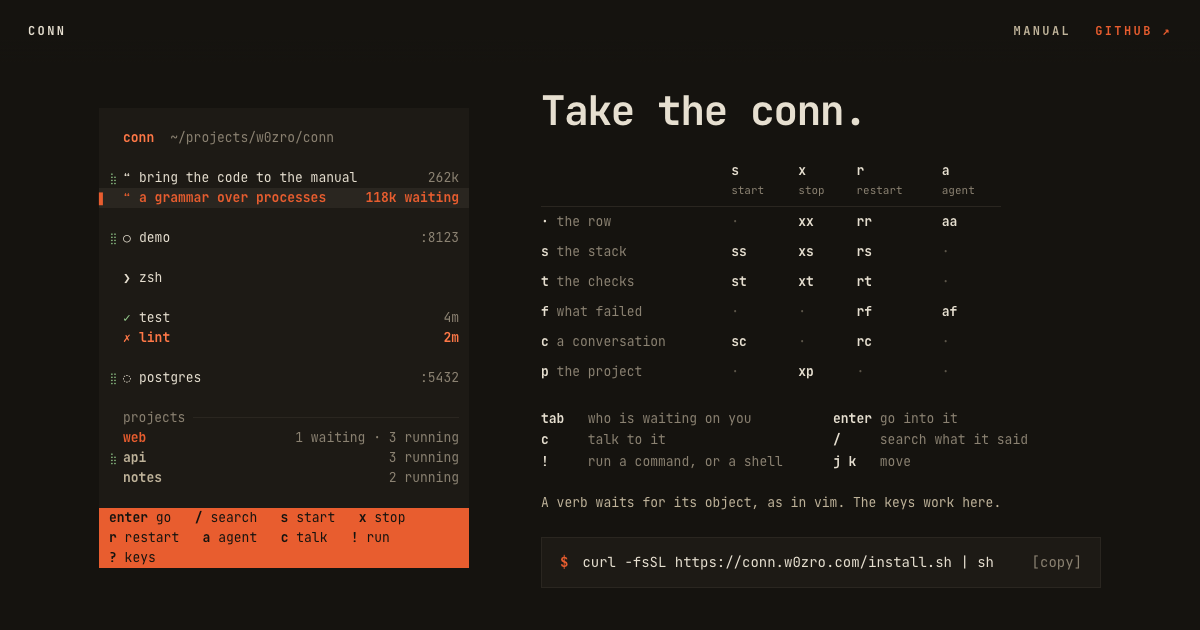
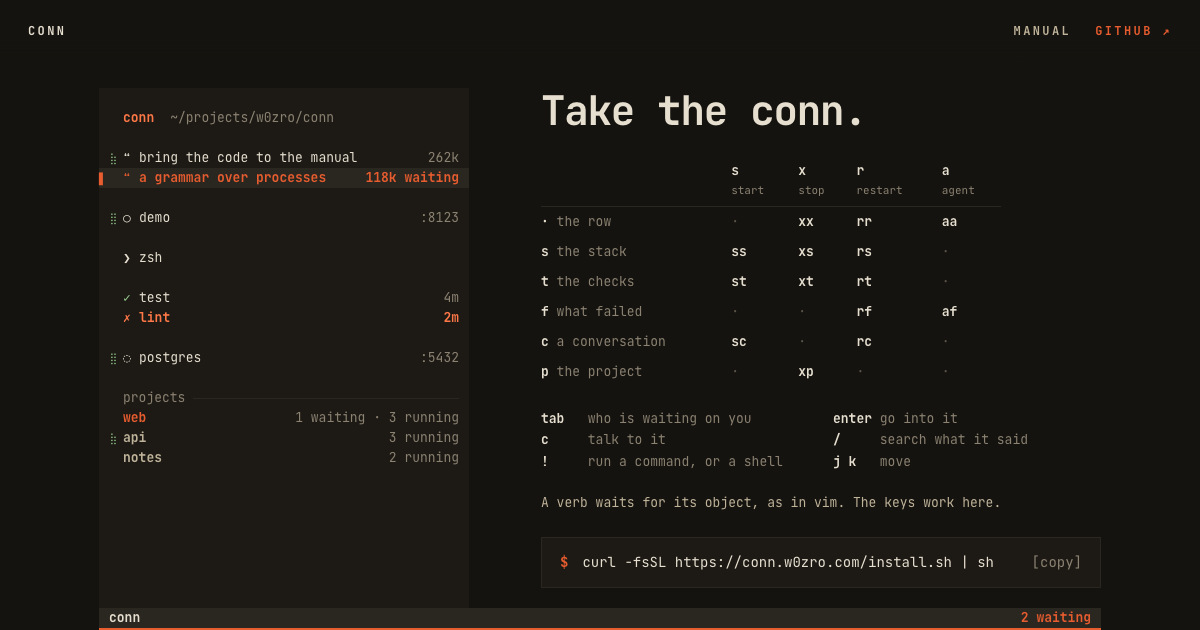
The hero is conn's window, with the band and the key bar at its foot, and a part says what the keys ask
The panel on the front page carried a key bar of its own, wrapped to
three rows at the panel's foot, which conn never shows: conn's keys
are on tmux's status line, one row across the window's foot, in the
block, and above it the band - conn at the left, and at the right how
many conversations wait across every project. The hero is now that
window: the panel pane at the left, reaching down to the foot, the
grammar where the workspace is, and under both the band and the bar.
A pending verb's objects take the bar, as they do in conn; a saying of
conn's own stands at the panel's foot under a row of air, as conn
lays it. The band counts what waits on the page.

A part on intent, between agents and waiting, says what the site did
not: a key is an intent conn builds no feature for; st and ss ask
Claude Code only where nobody has done it here yet and write down
what enter runs; c asks once how to talk to a process and keeps the
line; a kept command that fails at once is asked about again and a
wrong one replaced; and aa and af are the way out of the grammar. Its
figure plays conn's offer as scrolled to: the asking, the question
with the two lines, and the runs with their verdicts. The hand-off
lines move there from waiting, where the band is now said instead.

diff --git a/docs/site.js b/docs/site.js
@@ -78,7 +78,9 @@
   let rows = OPEN.rows.map(r => ({ ...r, id: Math.random() }));
   let cursor = Math.max(0, rows.findIndex(r => r.cursor));
   let verb = '', note = '', listing = false, listAt = 0;
-  const rowsEl = $('rows'), linesEl = $('lines'), footEl = $('foot'), panelEl = $('panel');
+  const rowsEl = $('rows'), linesEl = $('lines'), sayEl = $('say'), barEl = $('bar'), bandEl = $('band'), countEl = $('count'), panelEl = $('panel'), heroEl = document.querySelector('.hero');
+
+  const barHTML = hints => hints.map(([k, d]) => `<i><b>${esc(k)}</b> ${esc(d)}</i>`).join('');
 
   function markOf(r) {
     if (r.role === 'check') return r.status === 'passed' ? MARK.pass : r.status === 'failed' ? MARK.fail : MARK.check;
@@ -118,9 +120,13 @@
       rowsEl.innerHTML = html;
     }
     linesEl.innerHTML = OTHERS.map(p => `<div class="pline${p.waiting ? ' waiting' : ''}"><span class="spin">${p.turning ? '⣾' : ''}</span><span class="pname">${esc(p.name)}</span><span class="fig">${esc(p.standing)}</span></div>`).join('');
-    const hints = listing ? HINTS.list : verb ? HINTS[verb] : HINTS.project;
-    footEl.className = 'foot' + (note ? ' say' : '');
-    footEl.innerHTML = note ? esc(note) : hints.map(([k, d]) => `<i><b>${esc(k)}</b> ${esc(d)}</i>`).join('');
+    // The bar says the keys that work here, as tmux's line does; a
+    // saying of conn's own stands at the panel's foot; the band counts
+    // the conversations waiting across every project.
+    barEl.innerHTML = barHTML(listing ? HINTS.list : verb ? HINTS[verb] : HINTS.project);
+    sayEl.textContent = note;
+    const waiting = rows.filter(r => r.status === 'waiting').length + OTHERS.reduce((n, p) => n + p.rows.filter(r => r.status === 'waiting').length, 0);
+    countEl.textContent = waiting ? `${waiting} waiting` : '';
     for (const th of document.querySelectorAll('.verbs th[data-verb]')) th.classList.toggle('pending', th.dataset.verb === verb);
     for (const td of document.querySelectorAll('.verbs td[data-key]')) td.classList.toggle('pending', !!verb && td.dataset.key[0] === verb);
   }
@@ -257,7 +263,7 @@
   // their project's line. The grammar comes in last, and the line is
   // typed.
   const field = $('field'), panelbg = $('panelbg'), grammarEl = $('grammar');
-  const chromeEls = [panelbg, panelEl.querySelector('.phead'), panelEl.querySelector('.plabel'), footEl];
+  const chromeEls = [panelbg, panelEl.querySelector('.phead'), panelEl.querySelector('.plabel'), bandEl, barEl];
   const lerp = (a, b, t) => a + (b - a) * t;
   const ease = t => t < 0 ? 0 : t > 1 ? 1 : t * t * (3 - 2 * t);
   const clamp01 = t => Math.max(0, Math.min(1, t));
@@ -342,7 +348,7 @@
   function landed() {
     field.remove();
     for (const e of [...chromeEls, grammarEl, ...rowsEl.children, ...linesEl.children]) e.style.opacity = '';
-    panelEl.classList.remove('gathering'); grammarEl.classList.remove('gathering');
+    panelEl.classList.remove('gathering'); grammarEl.classList.remove('gathering'); heroEl.classList.remove('gathering');
     type(0);
   }
   function gather() {
@@ -382,6 +388,37 @@
     $('agentcmd').textContent = CMD; $('agentcur').classList.add('off'); $('agentout').textContent = OUT.join('\n');
   }
 
+  // ---- the offer --------------------------------------------------------
+
+  // Scrolled into view, st is pressed where no check has been run:
+  // conn asks Claude Code what the checks are, offers the answer on
+  // one key, and enter runs them and writes them down.
+  const obody = $('obody'), obar = $('obar');
+  const OFFER = [['test', 'go test -count=1 ./...'], ['lint', 'make lint']];
+  function offer() {
+    obody.innerHTML = '<div class="l">Nobody has done it here yet; asking Claude what checks conn…</div>';
+    obar.innerHTML = barHTML([['esc', 'cancel']]);
+    wait(1800, () => {
+      obody.innerHTML = '<div class="l ask">Run these checks in conn?</div><div class="l"></div>' + OFFER.map(([n, c]) => `<div class="l offered"><b>${n}</b>  ${esc(c)}</div>`).join('');
+      obar.innerHTML = barHTML([['enter', 'run them'], ['esc', 'cancel']]);
+    });
+    wait(4200, () => {
+      const checks = OFFER.map(([n]) => ({ role: 'check', name: n, status: 'running', id: Math.random() }));
+      const draw = () => { obody.innerHTML = checks.map(r => rowHTML(r, false)).join(''); };
+      draw();
+      obar.innerHTML = barHTML(HINTS.project);
+      wait(1500, () => { checks[0].status = 'passed'; checks[0].age = 'now'; draw(); });
+      wait(2100, () => { checks[1].status = 'failed'; checks[1].age = 'now'; draw(); });
+    });
+  }
+  if ('IntersectionObserver' in window && !held) {
+    const io = new IntersectionObserver(es => { if (es.some(e => e.isIntersecting)) { io.disconnect(); offer(); } }, { threshold: 0.6 });
+    io.observe($('offer'));
+  } else {
+    obody.innerHTML = '<div class="l ask">Run these checks in conn?</div><div class="l"></div>' + OFFER.map(([n, c]) => `<div class="l offered"><b>${n}</b>  ${esc(c)}</div>`).join('');
+    obar.innerHTML = barHTML([['enter', 'run them'], ['esc', 'cancel']]);
+  }
+
   // ---- the rest -------------------------------------------------------
 
   // The spinner turns in the margin of every row at work.
@@ -400,7 +437,7 @@
   // ---- opening --------------------------------------------------------
 
   render();
-  panelEl.classList.add('gathering'); grammarEl.classList.add('gathering');
+  panelEl.classList.add('gathering'); grammarEl.classList.add('gathering'); heroEl.classList.add('gathering');
   // The face, or a moment and a half for it: a font that never settles
   // does not hold the page.
   const ready = Promise.race([document.fonts && document.fonts.ready || Promise.resolve(), new Promise(r => setTimeout(r, 1500))]);
@@ -408,7 +445,7 @@
     if (held && Number(held[1]) >= 1 || reduced) {
       // The page as it stands once gathered.
       field.remove();
-      panelEl.classList.remove('gathering'); grammarEl.classList.remove('gathering');
+      panelEl.classList.remove('gathering'); grammarEl.classList.remove('gathering'); heroEl.classList.remove('gathering');
       typedEl.textContent = LINE; cursorEl.classList.add('off');
       for (const k of (look.get('k') || '').split(',').filter(Boolean)) act(k);
       return;

diff --git a/docs/site.css b/docs/site.css
@@ -57,28 +57,47 @@ b { font-weight: 700; }
 .nav .links a:hover { color: var(--ink); }
 .nav .links .accent { color: var(--accent); }
 
-/* The hero: the panel and the grammar, side by side. */
+/* The hero is conn's window: the panel pane at the left, the grammar
+   where the workspace is, and under both the two lines of tmux's
+   status: the band, and the key bar. */
 .hero {
   min-height: 100vh; min-height: 100dvh;
   box-sizing: border-box;
   display: grid; grid-template-columns: var(--panel-w) minmax(0, 560px);
-  gap: 72px; justify-content: center; align-items: center;
+  grid-template-rows: auto var(--row) var(--row);
+  column-gap: 72px; row-gap: 0; justify-content: center; align-content: center;
   padding: 88px 24px 48px;
 }
+.hero .grammar { align-self: center; padding-bottom: var(--row); }
+.band, .bar {
+  grid-column: 1 / -1;
+  height: var(--row); line-height: var(--row);
+  white-space: nowrap; overflow: hidden;
+}
+.band { background: var(--border); color: var(--gray); display: flex; justify-content: space-between; padding: 0 10px; }
+.band .who { color: var(--ink); font-weight: 700; }
+.band .count { color: var(--accent); font-weight: 700; }
+.bar { background: var(--block); color: var(--on-block); padding: 0 10px; }
+.bar b { font-weight: 700; }
+.bar i { font-style: normal; margin-right: 3ch; }
+.bar i:last-child { margin-right: 0; }
 
 /* The panel: the open project's head, a row a process, the projects
-   label with its rule and a line a project, and the bar at the foot.
-   A row is laid as conn lays one: the cursor's bar, the margin where
-   the spinner turns, the mark, the name, the figure at the right. */
+   label with its rule and a line a project, and at its foot a saying
+   of conn's own, under a row of air. A row is laid as conn lays one:
+   the cursor's bar, the margin where the spinner turns, the mark, the
+   name, the figure at the right. */
 .panel {
   position: relative; isolation: isolate;
   width: var(--panel-w); box-sizing: border-box;
   padding: var(--row) 0 0;
+  display: flex; flex-direction: column;
 }
+.panel .say { margin-top: auto; padding: var(--row) 10px 0 24px; min-height: calc(2 * var(--row)); line-height: var(--row); color: var(--ink); white-space: normal; }
 .panelbg { position: absolute; inset: 0; background: var(--surface); z-index: -1; }
 /* While the panes gather, the panel and the grammar are there only as
    site.js brings each piece in. */
-.panel.gathering .panelbg, .panel.gathering .phead, .panel.gathering .plabel, .panel.gathering .foot,
+.panel.gathering .panelbg, .panel.gathering .phead, .panel.gathering .plabel, .hero.gathering .band, .hero.gathering .bar,
 .panel.gathering .row, .panel.gathering .pline, .grammar.gathering { opacity: 0; }
 .phead, .row, .plabel, .pline {
   height: var(--row); line-height: var(--row);
@@ -111,16 +130,6 @@ b { font-weight: 700; }
 .pline .pname { flex: 1; color: var(--parchment); font-weight: 700; }
 .pline .fig { flex: none; color: var(--gray); margin-left: 12px; }
 .pline.waiting .pname { color: var(--accent); }
-.foot {
-  margin-top: var(--row);
-  min-height: var(--row); line-height: var(--row);
-  background: var(--block); color: var(--on-block);
-  padding: 0 10px;
-  display: flex; flex-wrap: wrap; column-gap: 3ch;
-}
-.foot b { font-weight: 700; }
-.foot i { font-style: normal; white-space: nowrap; }
-.foot.say { background: var(--surface); color: var(--parchment); padding-left: 24px; }
 
 /* The field: the panes that gather into the panel, over everything,
    once. A pane is a terminal with a process in it, nothing around it
@@ -216,6 +225,12 @@ main { max-width: 1002px; margin: 0 auto; padding: 0 24px; }
 .legend li span:nth-child(2) { flex: 1; color: var(--parchment); overflow: hidden; text-overflow: ellipsis; }
 .legend .fig { flex: none; color: var(--gray); margin-left: 12px; white-space: pre; }
 
+.offer { background: var(--surface); padding: var(--row) 0 0; min-height: calc(10 * var(--row)); display: flex; flex-direction: column; }
+.offer .obody { flex: 1; }
+.offer .obody .l { height: var(--row); line-height: var(--row); padding: 0 10px 0 24px; white-space: nowrap; overflow: hidden; text-overflow: ellipsis; color: var(--gray); }
+.offer .obody .l.ask { color: var(--parchment); font-weight: 700; }
+.offer .obody .l.offered b { color: var(--ink); display: inline-block; min-width: 6ch; }
+.offer .bar { margin-top: var(--row); }
 .shell { background: var(--surface); border: 1px solid var(--border); padding: 10px 12px; min-height: 112px; }
 .shell .body { font-size: 12px; line-height: 18px; color: var(--parchment); white-space: pre-wrap; }
 .shell .cursor { width: 7px; height: 13px; vertical-align: -2px; }
@@ -235,7 +250,10 @@ main { max-width: 1002px; margin: 0 auto; padding: 0 24px; }
 .end { max-width: 1002px; margin: 0 auto; padding: 32px 24px 48px; display: flex; justify-content: space-between; color: var(--faint); border-top: 1px solid var(--border); }
 
 @media (max-width: 920px) {
-  .hero { grid-template-columns: minmax(0, var(--panel-w)); gap: 40px; padding-top: 80px; }
+  .hero { grid-template-columns: minmax(0, var(--panel-w)); grid-template-rows: auto auto var(--row) auto; column-gap: 0; padding-top: 80px; }
+  .hero .grammar { margin-top: 40px; }
+  .bar { height: auto; white-space: normal; display: flex; flex-wrap: wrap; column-gap: 3ch; }
+  .bar i { margin-right: 0; white-space: nowrap; }
   .grammar { max-width: var(--panel-w); }
   .cols { grid-template-columns: minmax(0, 1fr); }
   .cli li { grid-template-columns: 1fr; gap: 0; margin-bottom: 12px; }

diff --git a/docs/index.html b/docs/index.html
@@ -37,8 +37,10 @@
      opens. site.js fills it and takes it away. -->
 <div id="field" class="field" aria-hidden="true"></div>
 
-<!-- The hero: the panel, alive, and beside it the grammar. The keys
-     pressed on this page work the panel as they work conn. -->
+<!-- The hero is conn's window: the panel at the left, alive, the
+     grammar where the workspace would be, and at the foot the band
+     and the key bar across both, as tmux draws them. The keys pressed
+     on this page work the panel as they work conn. -->
 <header class="hero">
   <div class="panel gathering" id="panel" aria-label="the panel">
     <div class="panelbg" id="panelbg"></div>
@@ -46,7 +48,7 @@
     <div class="rows" id="rows"></div>
     <div class="plabel"><span>projects</span><span class="rule"></span></div>
     <div class="lines" id="lines"></div>
-    <div class="foot" id="foot"></div>
+    <div class="say" id="say"></div>
   </div>
 
   <div class="grammar gathering" id="grammar">
@@ -75,6 +77,8 @@
     <p class="press">A verb waits for its object, as in vim. The keys work here.</p>
     <div class="cmd" role="group" aria-label="install command"><span class="prompt">$</span><code>curl -fsSL https://conn.w0zro.com/install.sh | sh</code><button class="copy" type="button" data-copy="curl -fsSL https://conn.w0zro.com/install.sh | sh">[copy]</button></div>
   </div>
+  <div class="band" id="band"><span class="who">conn</span><span class="count" id="count"></span></div>
+  <div class="bar" id="bar"></div>
 </header>
 
 <main>
@@ -128,13 +132,30 @@
 </section>
 
 <section class="part">
+  <p class="kicker">INTENT</p>
+  <div class="cols">
+    <ul class="facts">
+      <li>A key is an intent. conn builds no feature for it: it runs what was written down here, and asks Claude Code only where nobody has done it yet.</li>
+      <li><b>st</b> with no check run here asks what the checks are, offers the answer on one key, and writes down what <b>enter</b> runs. <b>ss</b> and the stack, the same.</li>
+      <li><b>c</b> on a row with no known client asks once how to talk to it, and keeps the line under the row's name: <b>psql</b> into postgres, the browser on a web server.</li>
+      <li>A kept command that fails at once is asked about again, with its status and last lines. One wrong for this machine is offered in its place; one that is right and failed for the project's own reasons is left alone.</li>
+      <li><b>aa</b> hands a row to a new conversation with its last lines; <b>af</b> hands every run that failed to one. Whatever the verbs do not cover goes to an agent, with the process as its brief.</li>
+    </ul>
+    <div class="offer" id="offer" aria-label="st pressed where no check has been run">
+      <div class="phead"><span class="pname">conn</span><span class="ppath">~/projects/w0zro/conn</span></div>
+      <div class="obody" id="obody"></div>
+      <div class="bar" id="obar"></div>
+    </div>
+  </div>
+</section>
+
+<section class="part">
   <p class="kicker">WAITING</p>
   <div class="cols">
     <ul class="facts">
       <li>A conversation that stops to ask is in the accent.</li>
       <li><b>tab</b> goes to the one that has waited longest. From inside any pane, <b>ctrl-space</b> then <b>tab</b>.</li>
-      <li>The terminal's title says how many wait. The bell rings as one more does.</li>
-      <li><b>aa</b> hands a row to a new conversation with its last lines; <b>af</b> hands every run that failed to one.</li>
+      <li>The band at the foot counts the conversations waiting across every project. The terminal's title says it too, and the bell rings as one more does.</li>
     </ul>
     <div class="title" aria-label="the terminal's title">
       <span class="dot"></span><span class="dot"></span><span class="dot"></span>
